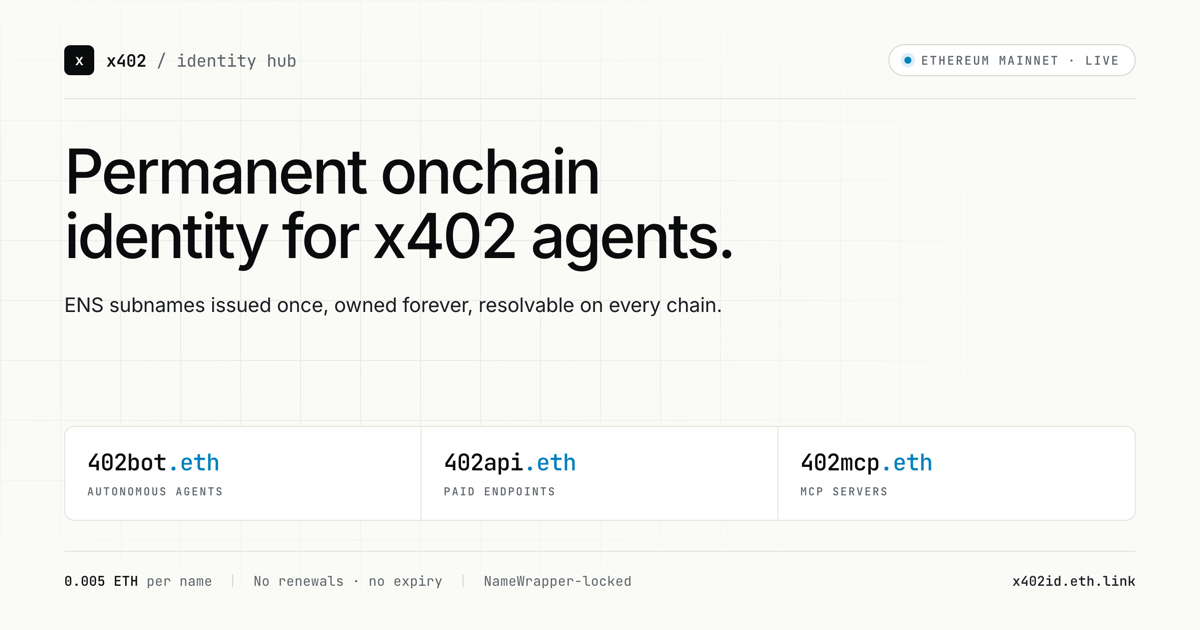
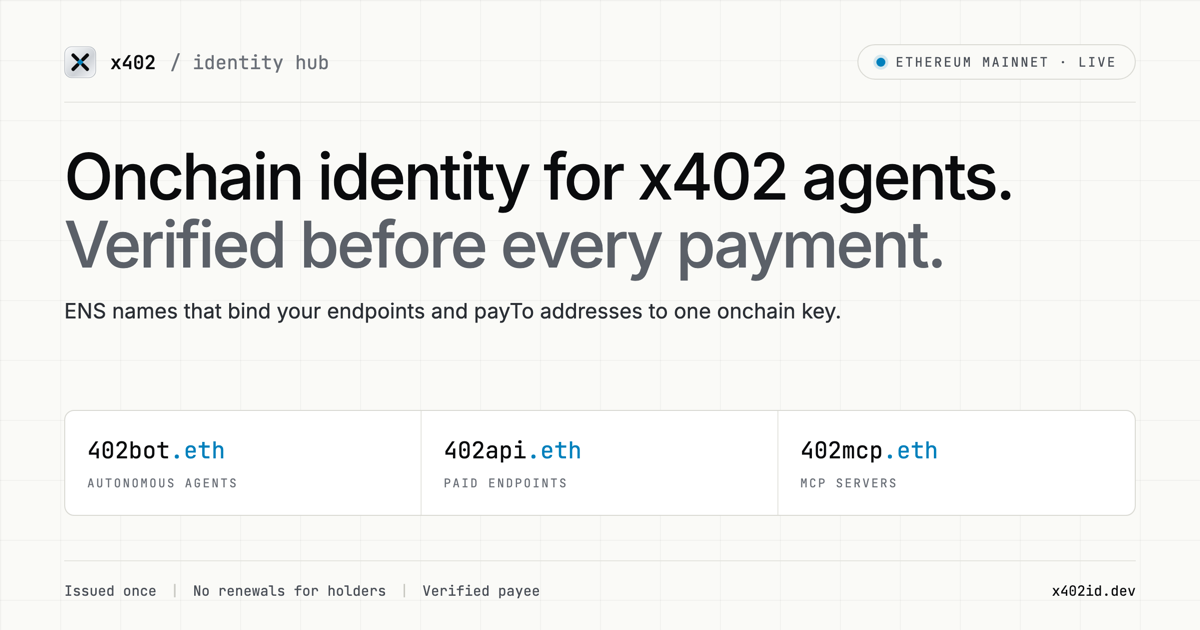
Home: verified-payee section, hero reworded, 4-link nav, new share card
- Hero: "Onchain identity for x402 agents. Verified before every payment."
  with Verify an endpoint as the second CTA
- New 04 / Verified payee section: problem, 3 steps, live payee-bound
  verdict for api.x402id.dev, links to /verify/, spec and npm package
- Nav cut to Namespaces / Verify / Token / Developers; the rest moved
  to the footer; links stay visible down to 860px
- og.png regenerated: new headline, x402id.dev, drops the stale
  0.005 ETH price and the "no expiry" claim; meta descriptions match
- Architecture diagram: subnames burn only PARENT_CANNOT_CONTROL

diff --git a/src/app/page.tsx b/src/app/page.tsx
@@ -142,13 +142,9 @@ export default function Home() {
           </a>
           <nav className="links">
             <a href="#namespaces">Namespaces</a>
-            <a href="#institutions">Institutions</a>
-            <a href="#architecture">Architecture</a>
+            <a href="#verified-payee">Verify</a>
             <a href="#token">Token</a>
-            <a href="#permanence">Permanence</a>
             <a href="#developers">Developers</a>
-            <a href="/integrate/">Integrate</a>
-            <a href="/verify/">Verify</a>
           </nav>
           <NavConnect onMint={() => openDrawer()} />
         </div>
@@ -161,19 +157,23 @@ export default function Home() {
             <span className="dot" />
             Ethereum mainnet · live
           </span>
-          <h1 style={{ marginTop: 32 }}>Permanent onchain identity for x402 agents.</h1>
+          <h1 style={{ marginTop: 32 }}>
+            Onchain identity for x402 agents.{" "}
+            <span className="h1-sub">Verified before every payment.</span>
+          </h1>
           <p className="lede" style={{ marginTop: 28 }}>
-            ENS subnames under{" "}
+            An ENS name under{" "}
             <span className="mono" style={{ color: "var(--ink)" }}>402bot.eth</span>,{" "}
-            <span className="mono" style={{ color: "var(--ink)" }}>402api.eth</span>, and{" "}
-            <span className="mono" style={{ color: "var(--ink)" }}>402mcp.eth</span> — issued once,
-            no renewals for holders, resolvable on every chain.
+            <span className="mono" style={{ color: "var(--ink)" }}>402api.eth</span> or{" "}
+            <span className="mono" style={{ color: "var(--ink)" }}>402mcp.eth</span> binds your x402
+            endpoints and payTo addresses to one onchain key. Any client can then check who it&apos;s
+            paying before it pays. Issued once, no renewals for holders.
           </p>
           <div className="hero-ctas">
             <button className="btn btn-primary btn-lg" onClick={() => openDrawer()}>
               Mint a name <span className="arrow">→</span>
             </button>
-            <a className="btn btn-ghost btn-lg" href="#architecture">Read the spec</a>
+            <a className="btn btn-ghost btn-lg" href="/verify/">Verify an endpoint</a>
             <a className="btn btn-ghost btn-lg mono" href="#developers" style={{ fontFamily: "var(--mono)", fontSize: 13 }}>
               View contract
             </a>
@@ -362,7 +362,7 @@ export default function Home() {
                 <rect x="0" y="0" width="180" height="100" rx="8" fill="var(--bg)" stroke="var(--line-2)" />
                 <text x="90" y="22" textAnchor="middle" fontFamily="JetBrains Mono" fontSize="10" fill="var(--muted)" letterSpacing="1.4">ENS NAMEWRAPPER</text>
                 <text x="90" y="50" textAnchor="middle" fontFamily="JetBrains Mono" fontSize="13" fill="var(--ink)">0xD441…6401</text>
-                <text x="90" y="72" textAnchor="middle" fontFamily="Inter" fontSize="11" fill="var(--ink-2)">fuses: CANNOT_UNWRAP</text>
+                <text x="90" y="72" textAnchor="middle" fontFamily="Inter" fontSize="11" fill="var(--ink-2)">fuse burned at mint:</text>
                 <text x="90" y="88" textAnchor="middle" fontFamily="Inter" fontSize="11" fill="var(--ink-2)">PARENT_CANNOT_CONTROL</text>
               </g>
 
@@ -412,11 +412,111 @@ export default function Home() {
         </div>
       </section>
 
+      {/* Verified payee */}
+      <section id="verified-payee" className="section-divider">
+        <div className="wrap">
+          <div className="sec-head">
+            <span className="index">04 / Verified payee</span>
+            <div className="h">
+              <h2>Know who you&apos;re paying before you pay.</h2>
+              <p>
+                A 402 response tells a client which address to pay. Nothing in it proves that address
+                belongs to the site that sent it. An x402 name closes that gap: the owner lists their
+                origins and payTo addresses on the name, and any client can check a 402 against them.
+              </p>
+            </div>
+          </div>
+
+          <div className="props" style={{ marginTop: 0 }}>
+            <div className="prop">
+              <span className="prop-num">STEP 01</span>
+              <h3>Set two records</h3>
+              <p>
+                On your name, list the origins that serve your endpoints in{" "}
+                <span className="mono">org.x402.origins</span>, and set your payTo as the name&apos;s
+                address on that network. One wallet transaction from the{" "}
+                <a href="/verify/" style={{ color: "var(--accent)" }}>verify wizard</a>.
+              </p>
+            </div>
+            <div className="prop">
+              <span className="prop-num">STEP 02</span>
+              <h3>Declare the name in your 402</h3>
+              <p>
+                Your server adds the <span className="mono">payee-name</span> extension to its 402
+                response. It names the operator; it doesn&apos;t change how payment works.
+              </p>
+            </div>
+            <div className="prop">
+              <span className="prop-num">STEP 03</span>
+              <h3>Clients check before paying</h3>
+              <p>
+                A client reads the 402, resolves the name on Ethereum, and confirms both the origin it
+                contacted and the payTo are listed. It gets a verdict, not a guess.
+              </p>
+            </div>
+          </div>
+
+          <div className="payee-grid">
+            <div className="code-card">
+              <div className="code-head">
+                <span className="title">verdict · api.x402id.dev · 2026-10-20</span>
+              </div>
+              <div className="code-body">
+                <pre>
+{"{"}
+{"\n"}  <span className="n">&quot;verdict&quot;</span>: <span className="k">true</span>,
+{"\n"}  <span className="n">&quot;reason&quot;</span>: <span className="s">&quot;payee-bound&quot;</span>,
+{"\n"}  <span className="n">&quot;name&quot;</span>: <span className="s">&quot;test.402api.eth&quot;</span>,
+{"\n"}  <span className="n">&quot;matched_by&quot;</span>: <span className="s">&quot;addr&quot;</span>,
+{"\n"}  <span className="n">&quot;parent_can_control&quot;</span>: <span className="k">false</span>,
+{"\n"}  <span className="n">&quot;expires_at&quot;</span>: <span className="s">&quot;2038-02-14T12:17:23Z&quot;</span>
+{"\n"}{"}"}
+                </pre>
+              </div>
+            </div>
+
+            <div className="fuse-list" style={{ marginTop: 0 }}>
+              <div className="fuse-row">
+                <div className="k">LIVE</div>
+                <div className="v">Our own paid endpoint, api.x402id.dev, verifies as payee-bound through test.402api.eth.</div>
+              </div>
+              <div className="fuse-row">
+                <div className="k">BAZAAR</div>
+                <div className="v">The first seller in Coinbase&apos;s Bazaar index to declare payee-name (1 of ~35k listings, Oct 2026).</div>
+              </div>
+              <div className="fuse-row">
+                <div className="k">STANDARDS</div>
+                <div className="v">Payee identity is a goal in the x402 Identity working group&apos;s draft charter; the payee-name extension is a proposal there.</div>
+              </div>
+              <div className="fuse-row">
+                <div className="k">TOOLS</div>
+                <div className="v">
+                  <span className="mono">@x402identity/payee</span> for clients, and the{" "}
+                  <span className="mono">verify_payee</span> tool in <span className="mono">@x402identity/mcp</span> for agents.
+                </div>
+              </div>
+            </div>
+          </div>
+
+          <div style={{ marginTop: 32, display: "flex", gap: 12, flexWrap: "wrap" }}>
+            <a className="btn btn-primary" href="/verify/">
+              Verify an endpoint <span className="arrow">→</span>
+            </a>
+            <a className="btn btn-ghost" href="https://github.com/RWA-ID/x402-Identity/blob/main/specs/extensions/payee-name.md" target="_blank" rel="noopener">
+              Read the spec <span className="arrow">↗</span>
+            </a>
+            <a className="btn btn-ghost" href="https://www.npmjs.com/package/@x402identity/payee" target="_blank" rel="noopener">
+              @x402identity/payee <span className="arrow">↗</span>
+            </a>
+          </div>
+        </div>
+      </section>
+
       {/* Live Metrics */}
       <section id="metrics" className="section-divider">
         <div className="wrap">
           <div className="sec-head">
-            <span className="index">04 / Live metrics</span>
+            <span className="index">05 / Live metrics</span>
             <div className="h">
               <h2>Verifiable, in real time.</h2>
               <p>Everything you can grep on Etherscan, surfaced as live state. No analytics layer, no proprietary dashboard — just the chain.</p>
@@ -431,7 +531,7 @@ export default function Home() {
       <section id="token" className="section-divider">
         <div className="wrap">
           <div className="sec-head">
-            <span className="index">05 / Token</span>
+            <span className="index">06 / Token</span>
             <div className="h">
               <h2>$X402ID — the token for the Identity Hub.</h2>
               <p>
@@ -501,7 +601,7 @@ export default function Home() {
       <section id="permanence" className="section-divider">
         <div className="wrap">
           <div className="sec-head">
-            <span className="index">06 / Permanence</span>
+            <span className="index">07 / Permanence</span>
             <div className="h">
               <h2>An identity you can build a 10-year roadmap on.</h2>
               <p>
@@ -577,7 +677,7 @@ export default function Home() {
       <section id="developers" className="section-divider">
         <div className="wrap">
           <div className="sec-head">
-            <span className="index">07 / Integrate</span>
+            <span className="index">08 / Integrate</span>
             <div className="h">
               <h2>One contract, two calls, no SDK required.</h2>
               <p>
@@ -645,6 +745,9 @@ export default function Home() {
           </div>
 
           <div style={{ marginTop: 32, display: "flex", gap: 12, flexWrap: "wrap" }}>
+            <a className="btn btn-primary" href="/integrate/">
+              Platform integration guide <span className="arrow">→</span>
+            </a>
             <a className="btn btn-ghost" href="https://github.com/RWA-ID/x402-Identity" target="_blank" rel="noopener">
               GitHub repository <span className="arrow">↗</span>
             </a>
@@ -669,7 +772,7 @@ export default function Home() {
                 <span className="brand-sub">/ identity hub</span>
               </a>
               <p className="foot-tag">
-                Permanent onchain identity for x402 agents — issued under 402bot.eth, 402api.eth, and 402mcp.eth.
+                Onchain identity for x402 agents, verified before every payment — issued under 402bot.eth, 402api.eth, and 402mcp.eth.
               </p>
             </div>
             <div className="foot-col">
@@ -677,9 +780,13 @@ export default function Home() {
               <ul>
                 <li><button onClick={() => openDrawer()} style={{ background: "none", border: 0, padding: 0, cursor: "pointer", color: "inherit", font: "inherit" }}>Mint</button></li>
                 <li><a href="#namespaces">Namespaces</a></li>
+                <li><a href="#institutions">Institutions</a></li>
                 <li><a href="#architecture">Architecture</a></li>
+                <li><a href="#verified-payee">Verified payee</a></li>
+                <li><a href="/verify/">Verify an endpoint</a></li>
                 <li><a href="#metrics">Live metrics</a></li>
                 <li><a href="#token">$X402ID token</a></li>
+                <li><a href="#permanence">Permanence</a></li>
                 <li><a href="/integrate/">Integrate (platforms)</a></li>
               </ul>
             </div>

diff --git a/src/app/globals.css b/src/app/globals.css
@@ -167,13 +167,13 @@ nav.links a:focus-visible {
 }
 
 .nav-cta { display: flex; align-items: center; gap: 12px; }
-@media (max-width: 1279px) { .brand-sub { display: none; } }
-@media (max-width: 1199px) {
+@media (max-width: 1023px) { .brand-sub { display: none; } }
+@media (max-width: 959px) {
   .nav-inner { gap: 16px; }
   nav.links { gap: 0; }
   nav.links a { font-size: 11px; letter-spacing: 0.04em; padding: 5px 7px; }
 }
-@media (max-width: 1023px) { nav.links { display:none; } }
+@media (max-width: 859px) { nav.links { display:none; } }
 
 /*-- Buttons ---------------------------------------------------------*/
 .btn {
@@ -223,7 +223,8 @@ nav.links a:focus-visible {
 
 /*-- Hero ---------------------------------------------------------*/
 .hero { padding: 120px 0 96px; }
-.hero h1 { max-width: 16ch; }
+.hero h1 { max-width: 27ch; text-wrap: balance; }
+.hero h1 .h1-sub { display: block; color: var(--muted); }
 .hero .lede { margin-top: 28px; }
 .hero-ctas {
   margin-top: 40px;
@@ -449,6 +450,17 @@ nav.links a:focus-visible {
 @media (max-width: 600px) {
   .fuse-row { grid-template-columns: 1fr; gap: 4px; }
 }
+
+.payee-grid {
+  display: grid;
+  grid-template-columns: 1fr 1.1fr;
+  gap: 48px;
+  align-items: start;
+  margin-top: 56px;
+}
+@media (max-width: 900px) { .payee-grid { grid-template-columns: 1fr; gap: 32px; } }
+.payee-grid .fuse-row { grid-template-columns: 120px 1fr; }
+@media (max-width: 600px) { .payee-grid .fuse-row { grid-template-columns: 1fr; } }
 
 .timeline {
   border: 1px solid var(--line);

diff --git a/src/app/layout.tsx b/src/app/layout.tsx
@@ -2,9 +2,7 @@ import type { Metadata, Viewport } from "next";
 import "./globals.css";
 import { Providers } from "./providers";
 import { Analytics } from "@/components/Analytics";
-import { SITE } from "@/lib/seo";
-const OG_ALT =
-  "x402 Identity Hub — permanent onchain identity for x402 agents. ENS subnames under 402bot.eth, 402api.eth, and 402mcp.eth.";
+import { SITE, OG_ALT } from "@/lib/seo";
 
 // metadataBase lets every page express canonical/og:image as a relative path and
 // still emit absolute URLs, which is what scrapers require.
@@ -34,7 +32,7 @@ export const metadata: Metadata = {
     siteName: "x402 Identity Hub",
     url: "/",
     title: "x402 Identity Hub",
-    description: "Mint permanent ENS subnames for your AI agents.",
+    description: "Onchain identity for x402 agents, verified before every payment.",
     images: [{ url: "/og.png", width: 1200, height: 630, type: "image/png", alt: OG_ALT }],
   },
   twitter: {
@@ -43,7 +41,7 @@ export const metadata: Metadata = {
     creator: "@x402identity",
     title: "x402 Identity Hub",
     description:
-      "Mint permanent ENS subnames for your AI agents under 402bot.eth, 402api.eth, 402mcp.eth.",
+      "Onchain identity for x402 agents, verified before every payment. ENS names under 402bot.eth, 402api.eth, 402mcp.eth.",
     images: [{ url: "/og.png", alt: OG_ALT }],
   },
   icons: {

diff --git a/src/lib/seo.ts b/src/lib/seo.ts
@@ -4,7 +4,7 @@ import type { Metadata } from "next";
 export const SITE = "https://x402id.dev";
 
 export const OG_ALT =
-  "x402 Identity Hub — permanent onchain identity for x402 agents. ENS subnames under 402bot.eth, 402api.eth, and 402mcp.eth.";
+  "x402 Identity Hub — onchain identity for x402 agents, verified before every payment. ENS names under 402bot.eth, 402api.eth, and 402mcp.eth.";
 
 export const OG_IMAGE = {
   url: "/og.png",
